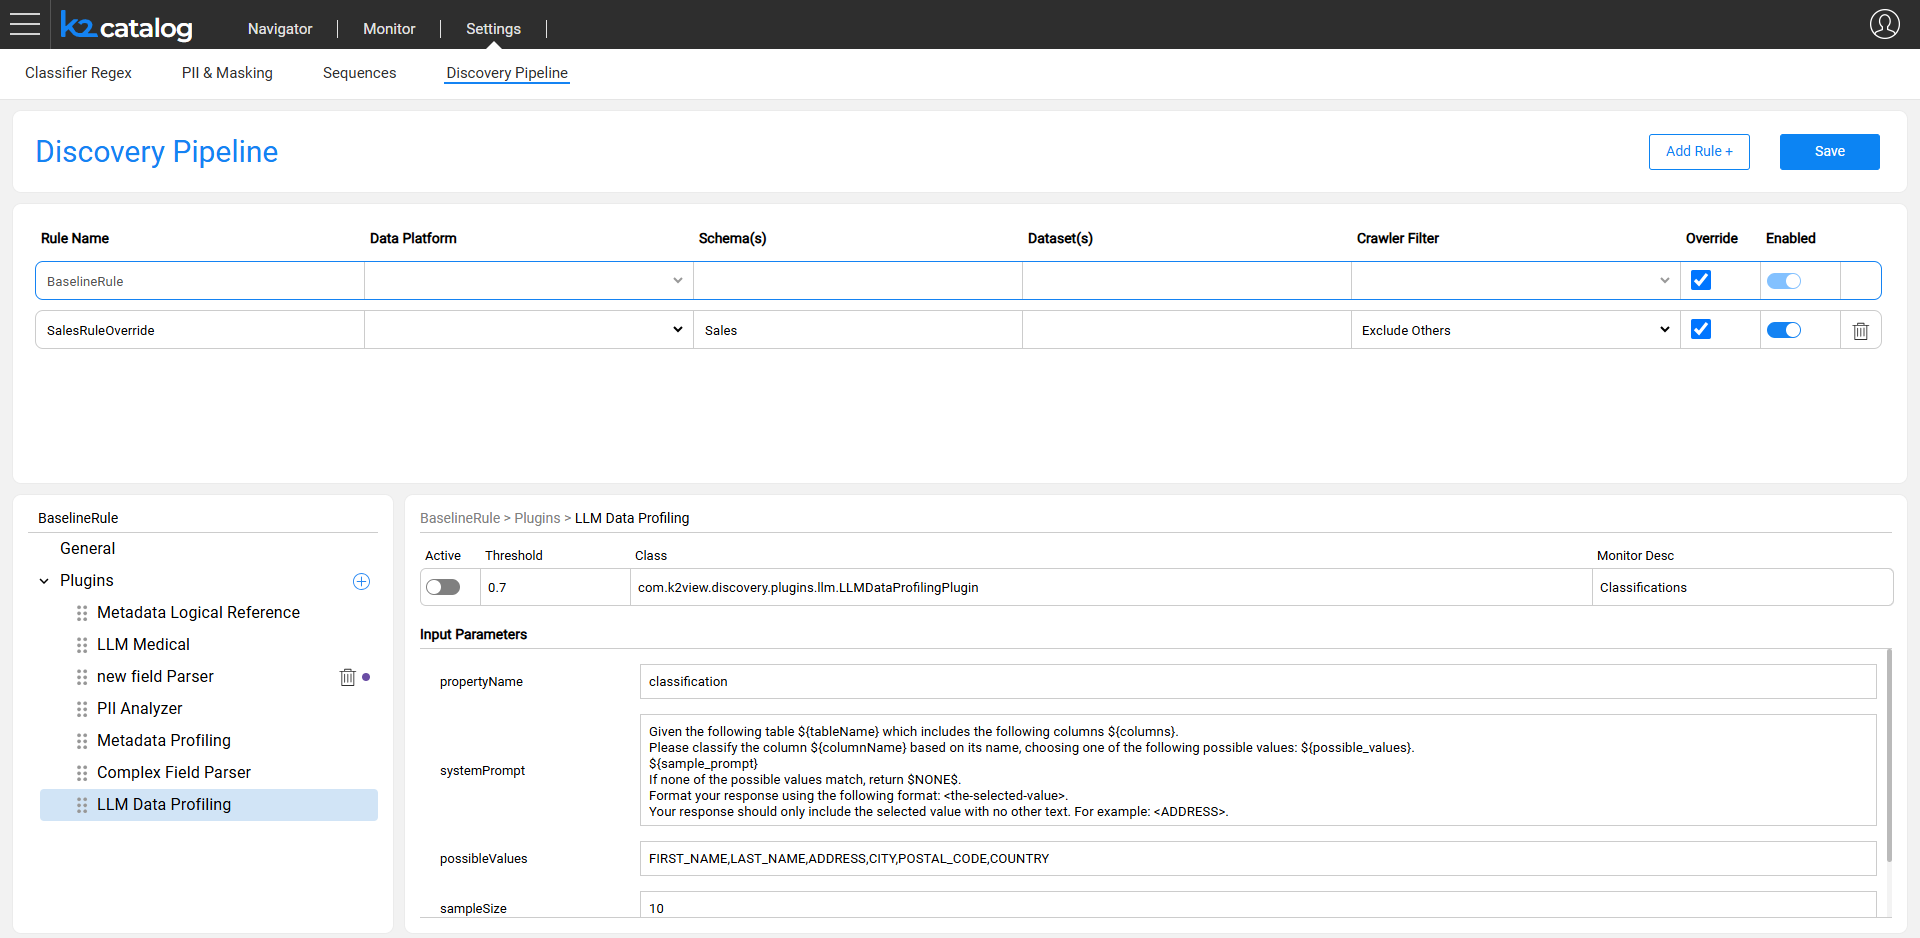
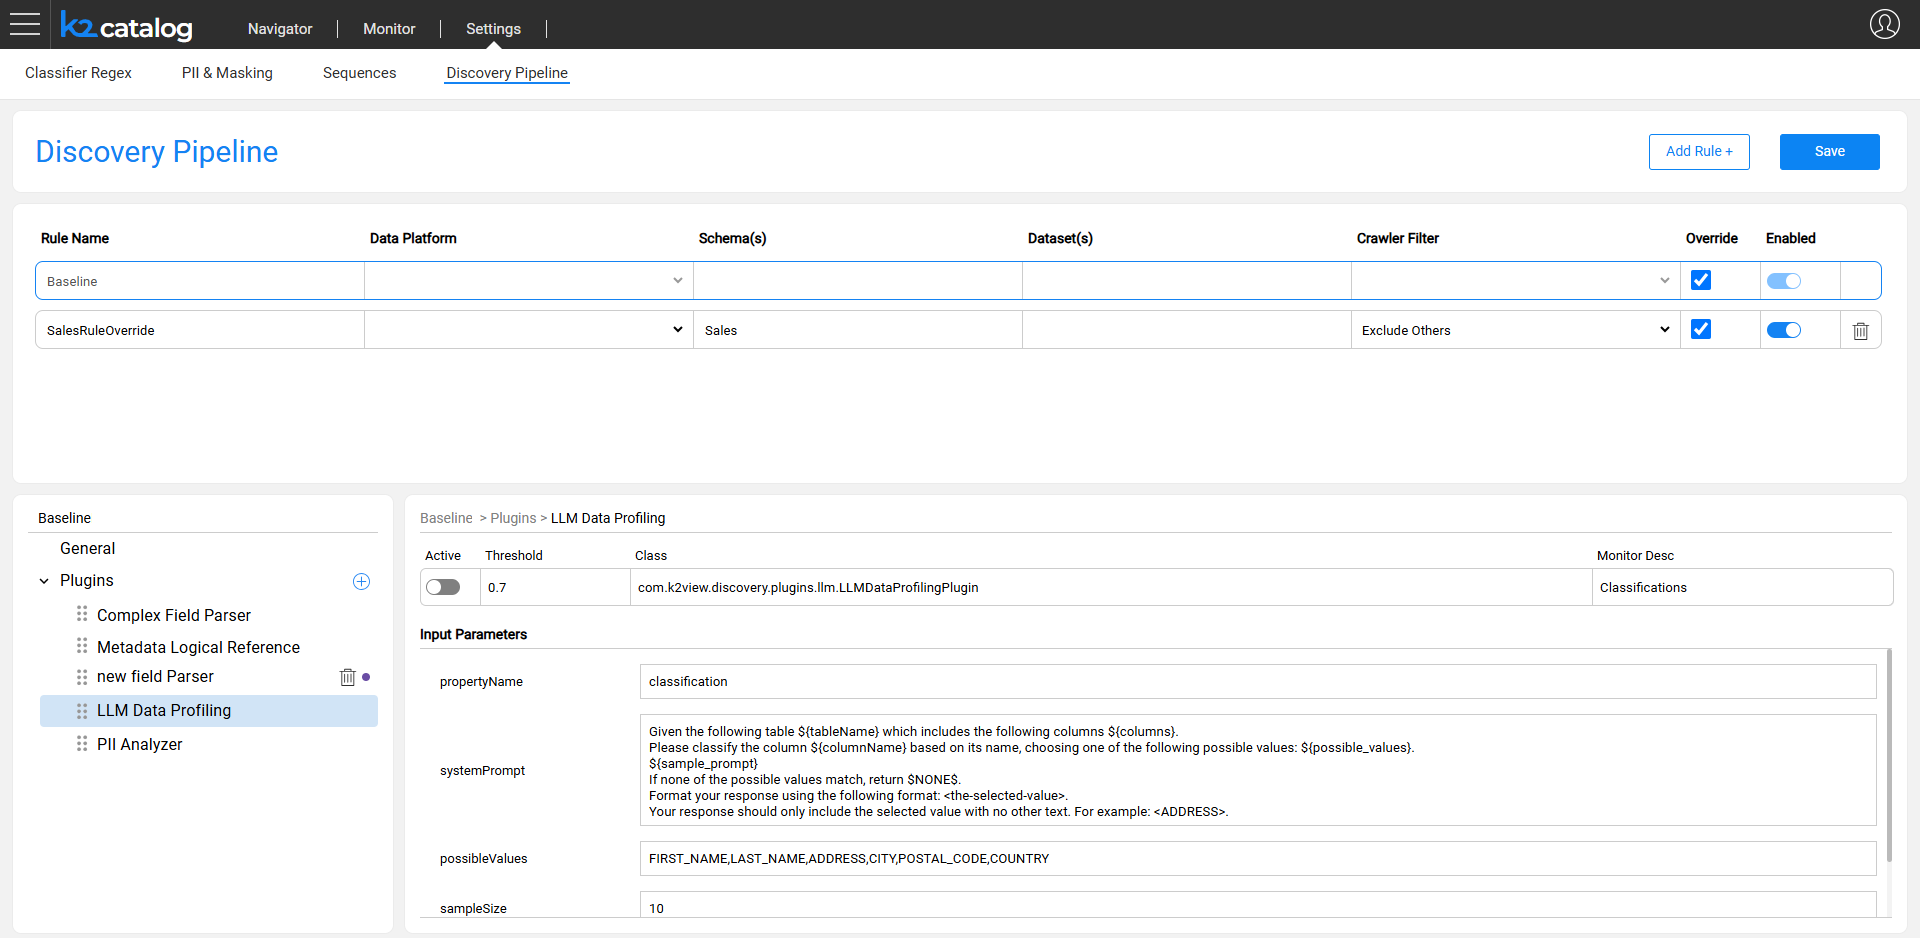
Catalog pipeline updates

Changed region(s): [[0.0, 0.742, 0.2188, 0.8966], [0.0312, 0.6493, 0.1562, 0.7111], [0.25, 0.5256, 0.375, 0.5565]]

diff --git a/articles/39_fabric_catalog/13_discovery_pipeline_settings.md b/articles/39_fabric_catalog/13_discovery_pipeline_settings.md
@@ -2,13 +2,13 @@
 
 ### Overview
 
-The Discovery Pipeline tab in the Catalog Settings provides a full and comprehensive view of the Discovery job configuration. It displays the configuration rules: the Baseline rule that defines the product default settings as well as the project-level rules. 
+The **Discovery Pipeline** tab in the Catalog Settings provides a full and comprehensive view of the Discovery job configuration. It displays the configuration rules: the Baseline rule that defines the product default settings as well as the project-level rules. 
 
-The Baseline rule includes a list of product built-in plugins with their input parameters, sample size for the data snapshot and more. 
+The **Baseline** rule includes a list of product built-in plugins with their input parameters, sample size for the data snapshot and more. 
 
 In addition to viewing the baseline, this setup screen enables performing the following updates:
 
-* Override baseline configuration
+* Override the baseline rule configuration
 * Add new plugins to the pipeline
 * Create filter on data platform that will be applied by the crawler
 
@@ -19,7 +19,7 @@ This article describes the screen capabilities and explain how they can impact t
 
 ### Baseline Rule
 
-
+The baseline rule is a product level configuration 
 
 ### Project Rules
 
